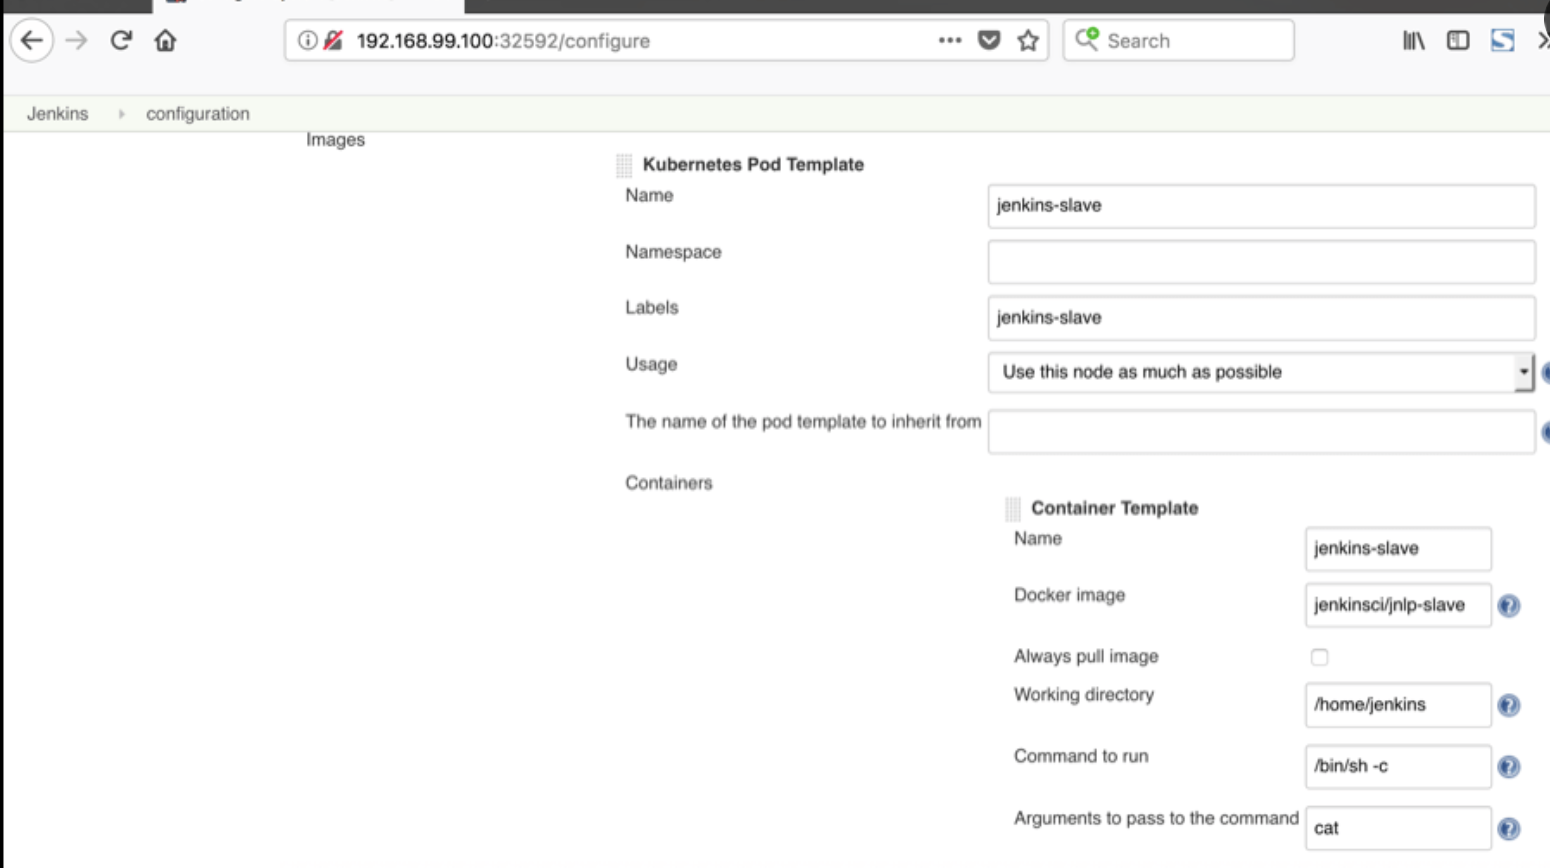
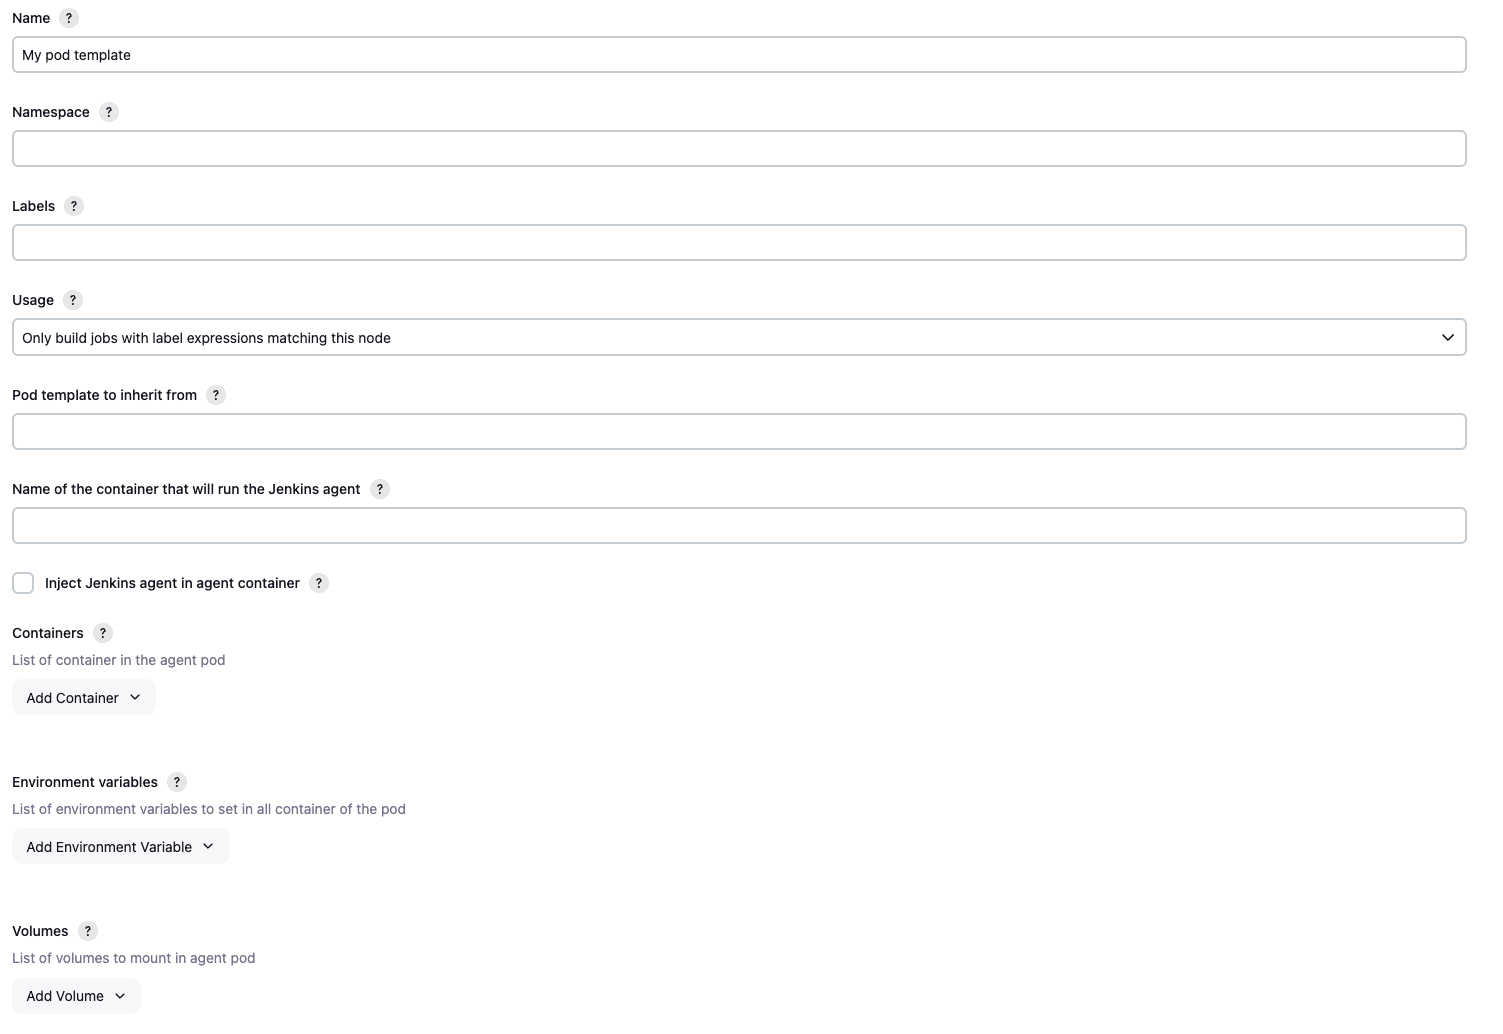
Update README with agent injection in mind (#1606)
* Update README with agent injection in mind

Following #1602, there are several sentences in the README that can be
made more generic, avoiding references to `jnlp`. As it is still the
default value, I couldn't remove all references, but I think it is
slightly clearer now.

* Fix review and refresh pod template screenshot

* Refresh

diff --git a/README.md b/README.md
@@ -92,9 +92,15 @@ Feel free to enable it and provide feedback about this functionality.
 ## Static pod templates
 
 In addition to that, in the **Kubernetes Pod Template** section, we need to configure the image that will be used to 
-spin up the agent pod. We do not recommend overriding the `jnlp` container except under unusual circumstances. 
-For your agent, you can use the default Jenkins agent image available in [Docker Hub](https://hub.docker.com). In the
-‘Kubernetes Pod Template’ section you need to specify the following (the rest of the configuration is up to you):
+spin up the agent pod. The Jenkins agent runs by default in a container named `jnlp` (historical name, kept for backward compatibility).
+
+You may use it, use a different agent container name and/or provide your own container image.
+
+To avoid drift between the Jenkins controller and your agent, we recommend *not* to include the agent JAR in your image, but instead use the *Inject Jenkins agent in agent container* checkbox.
+
+The provided container image must have a JRE installed that is compatible with the Java version required by the Jenkins controller.
+
+In the ‘Kubernetes Pod Template’ section you need to specify the following (the rest of the configuration is up to you):
 Kubernetes Pod Template Name - can be any and will be shown as a prefix for unique generated agent’ names, which will 
 be run automatically during builds
 Docker image - the docker image name that will be used as a reference to spin up a new Jenkins agent, as seen below
@@ -115,9 +121,13 @@ use this cloud configuration you will need to add it in the jobs folder's config
 # Usage
 ## Overview
 
-The Kubernetes plugin allocates Jenkins agents in Kubernetes pods. Within these pods, there is always one special
-container `jnlp` that is running the Jenkins agent. Other containers can run arbitrary processes of your choosing,
-and it is possible to run commands dynamically in any container in the agent pod. 
+The Kubernetes plugin allocates Jenkins agents in Kubernetes pods.
+
+Within these pods, there is always one special container that is running the Jenkins agent.
+
+Its name defaults to `jnlp`, but you can override the name with one of your choosing in pod template configuration.
+
+Other containers can run arbitrary processes of your choosing, and it is possible to run commands dynamically in any container in the agent pod using the `container` step (pipeline only). 
 
 ## Using a label
 
@@ -146,10 +156,9 @@ podTemplate {
 }
 ```
 
-Commands will be executed by default in the `jnlp` container, where the Jenkins agent is running.
-(The `jnlp` name is historical and is retained for compatibility.)
+Commands will be executed by default in the designated agent container, where the Jenkins agent is running.
 
-This will run in the `jnlp` container:
+This will run in the agent container:
 ```groovy
 podTemplate {
     node(POD_LABEL) {
@@ -162,7 +171,7 @@ podTemplate {
 
 Find more examples in the [examples dir](examples).
 
-The default jnlp agent image used can be customized by adding it to the template
+The default agent image used can be customized by adding it to the template
 
 ```groovy
 containerTemplate(name: 'jnlp', image: 'jenkins/inbound-agent', args: '${computer.jnlpmac} ${computer.name}'),
@@ -427,7 +436,7 @@ kind: Pod
 spec:
   containers:
   - name: maven
-    image: maven:3.8.1-jdk-8
+    image: maven:3.9.9-eclipse-temurin-17
     command:
     - sleep
     args:
@@ -462,29 +471,27 @@ See [Defining a liveness command](https://kubernetes.io/docs/tasks/configure-pod
 ## Overview
 
 A pod template may or may not inherit from an existing template.
-This means that the pod template will inherit node selector, service account, image pull secrets, container templates
-and volumes from the template it inherits from.
 
-**yaml** is merged according to the value of `yamlMergeStrategy`.
+Depending on fields, the inheritance behaviour can vary. For simple values (strings), the child template will override the parent template. However for complex values (lists, maps), the child template will merge with the parent template.
 
-**Service account** and **Node selector** when are overridden completely substitute any possible value found on the 'parent'.
-
-**Container templates** that are added to the podTemplate, that has a matching containerTemplate (a container template
+* **yaml** is merged according to the value of `yamlMergeStrategy` specified in the child pod template.
+* **Service account** and **Node selector** when are overridden completely substitute any possible value found on the 'parent'.
+* **Container templates** that are added to the podTemplate, that has a matching containerTemplate (a container template
 with the same name) in the 'parent' template, will inherit the configuration of the parent containerTemplate.
 If no matching container template is found, the template is added as is.
-
-**Volume** inheritance works exactly as **Container templates**.
-
-**Image Pull Secrets** are combined (all secrets defined both on 'parent' and 'current' template are used).
+* **Volume** inheritance works exactly as **Container templates**.
+* **Image Pull Secrets** are combined (all secrets defined both on 'parent' and 'current' template are used).
 
 In the example below, we will inherit from a pod template we created previously, and will just override the version of
-`maven` so that it uses jdk-11 instead:
+`maven` so that it uses Java 21 instead:
 
-![image](images/mypod.png)
+![image](images/mypod-1-general.png)
+![image](images/mypod-2-golang.png)
+![image](images/mypod-3-maven.png)
 
 ```groovy
 podTemplate(inheritFrom: 'mypod', containers: [
-    containerTemplate(name: 'maven', image: 'maven:3.8.1-jdk-11')
+    containerTemplate(name: 'maven', image: 'maven:3.9.9-eclipse-temurin-21')
   ]) {
   node(POD_LABEL) {
     …
@@ -503,7 +510,7 @@ pipeline {
       spec:
         containers:
         - name: maven
-          image: maven:3.8.1-jdk-11
+          image: maven:3.9.9-eclipse-temurin-21
 '''
       …
     }
@@ -520,22 +527,22 @@ Also, the `golang` container will be added as defined in the 'parent' template.
 
 ## Multiple Pod template inheritance
 
-Field `inheritFrom` may refer a single podTemplate or multiple separated by space. In the later case each template will
+Field `inheritFrom` may refer a single pod template or multiple separated by space. In the later case each template will
 be processed in the order they appear in the list *(later items overriding earlier ones)*.
 In any case if the referenced template is not found it will be ignored.
 
 
 ## Nesting Pod templates
 
-Field `inheritFrom` provides an easy way to compose podTemplates that have been pre-configured. In many cases it would
-be useful to define and compose podTemplates directly in the pipeline using groovy.
+Field `inheritFrom` provides an easy way to compose pod templates that have been pre-configured. In many cases it would
+be useful to define and compose pod templates directly in the pipeline using groovy.
 This is made possible via nesting. You can nest multiple pod templates together in order to compose a single one.
 
 The example below composes two different pod templates in order to create one with maven and docker capabilities.
 
 ```groovy
-podTemplate(containers: [containerTemplate(image: 'docker', name: 'docker', command: 'cat', ttyEnabled: true)]) {
-    podTemplate(containers: [containerTemplate(image: 'maven', name: 'maven', command: 'cat', ttyEnabled: true)]) {
+podTemplate(containers: [containerTemplate(image: 'docker', name: 'docker', command: 'sleep', args: '99d')]) {
+    podTemplate(containers: [containerTemplate(image: 'maven', name: 'maven', command: 'sleep', args: '99d')]) {
       node(POD_LABEL) { // gets a pod with both docker and maven
         …
       }
@@ -618,7 +625,7 @@ pipeline {
         spec:
           containers:
           - name: maven
-            image: maven:alpine
+            image: maven:3.9.9-eclipse-temurin-17
             command:
             - cat
             tty: true
@@ -671,7 +678,7 @@ pipeline {
       //cloud 'kubernetes'
       containerTemplate {
         name 'maven'
-        image 'maven:3.8.1-jdk-8'
+        image 'maven:3.9.9-eclipse-temurin-17'
         command 'sleep'
         args '99d'
       }
@@ -684,7 +691,7 @@ pipeline {
 ```
 
 Run steps within a container by default. Steps will be nested within an implicit `container(name) {...}` block instead
-of being executed in the jnlp container.
+of being executed in the agent container.
 
 ```groovy
 pipeline {
@@ -760,7 +767,7 @@ pipeline {
                     spec:
                     containers:
                     - name: maven
-                      image: maven:3.8.1-jdk-8
+                      image: maven:3.9.9-eclipse-temurin-17
                       command:
                       - sleep
                       args:
@@ -822,7 +829,7 @@ OpenShift runs containers using a _random_ UID that is overriding what is specif
 For this reason, you may end up with the following warning in your build
 
 ```
-[WARNING] HOME is set to / in the jnlp container. You may encounter troubles when using tools or ssh client. This usually happens if the uid doesnt have any entry in /etc/passwd. Please add a user to your Dockerfile or set the HOME environment variable to a valid directory in the pod template definition.
+[WARNING] HOME is set to / in the agent container. You may encounter troubles when using tools or ssh client. This usually happens if the uid doesnt have any entry in /etc/passwd. Please add a user to your Dockerfile or set the HOME environment variable to a valid directory in the pod template definition.
 ```
 
 At the moment the jenkinsci agent image is not built for OpenShift and will issue this warning.
@@ -846,18 +853,6 @@ beta.kubernetes.io/os=linux
 
 You can run pods on Windows if your cluster has Windows nodes.
 See the [example](src/main/resources/org/csanchez/jenkins/plugins/kubernetes/pipeline/samples/windows.groovy).
-
-# Constraints
-
-Multiple containers can be defined in a pod.
-One of them is automatically created with name `jnlp`, and runs the Jenkins JNLP agent service, with args `${computer.jnlpmac} ${computer.name}`,
-and will be the container acting as Jenkins agent.
-
-Other containers must run a long running process, so the container does not exit. If the default entrypoint or command
-just runs something and exit then it should be overridden with something like `cat` with `ttyEnabled: true`.
-
-**WARNING**
-If you want to provide your own Docker image for the inbound agent, you **must** name the container `jnlp` so it overrides the default one. Failing to do so will result in two agents trying to concurrently connect to the controller.
 
 # Configuration on minikube
 
@@ -931,7 +926,7 @@ touch: /home/jenkins/agent/workspace/thejob@tmp/durable-e0b7cd27/jenkins-log.txt
 touch: /home/jenkins/agent/workspace/thejob@tmp/durable-e0b7cd27/jenkins-log.txt: Permission denied
 touch: /home/jenkins/agent/workspace/thejob@tmp/durable-e0b7cd27/jenkins-log.txt: Permission denied
 ```
-Usually this happens when UID of the user in `jnlp` container differs from the one in another container(s). 
+Usually this happens when UID of the user in agent container differs from the one in another container(s). 
 All containers you use should have the same UID of the user, also this can be achieved by setting `securityContext`:
 ```yaml
 apiVersion: v1
@@ -941,7 +936,7 @@ spec:
     runAsUser: 1000 # default UID of jenkins user in agent image
   containers:
   - name: maven
-    image: maven:3.8.1-jdk-8
+    image: maven:3.9.9-eclipse-temurin-17
     command:
     - cat
     tty: true
@@ -967,7 +962,7 @@ RUN keytool -noprompt -storepass changeit -cacerts \
 USER jenkins
 ```
 
-Then, use it as the `jnlp` container for the pod template as usual. No command or args need to be specified.
+Then, use it as the agent container for the pod template as usual. No command or args need to be specified.
 
 > **Notes:**
 >
